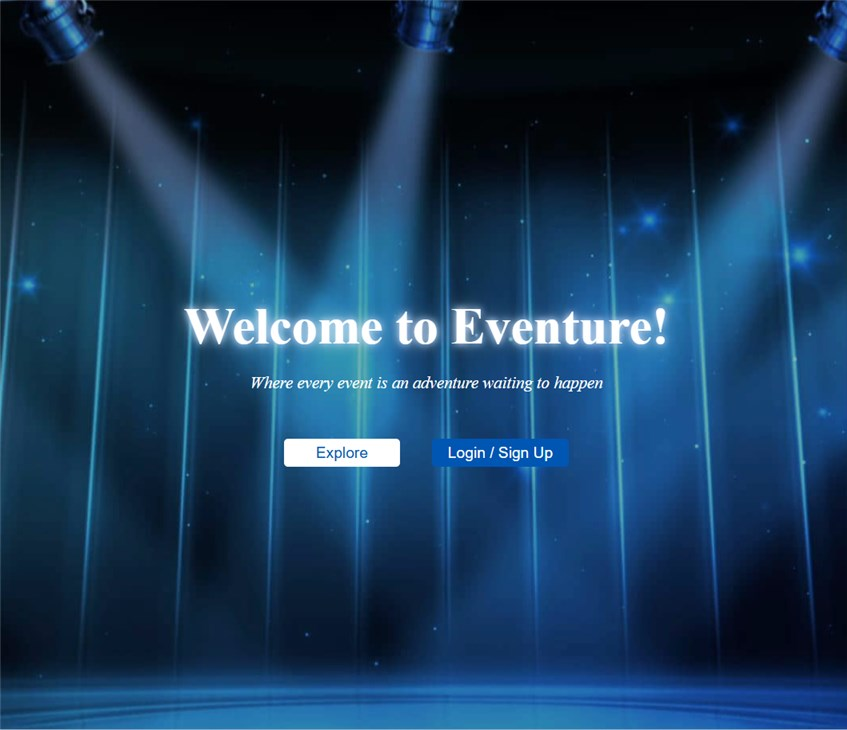
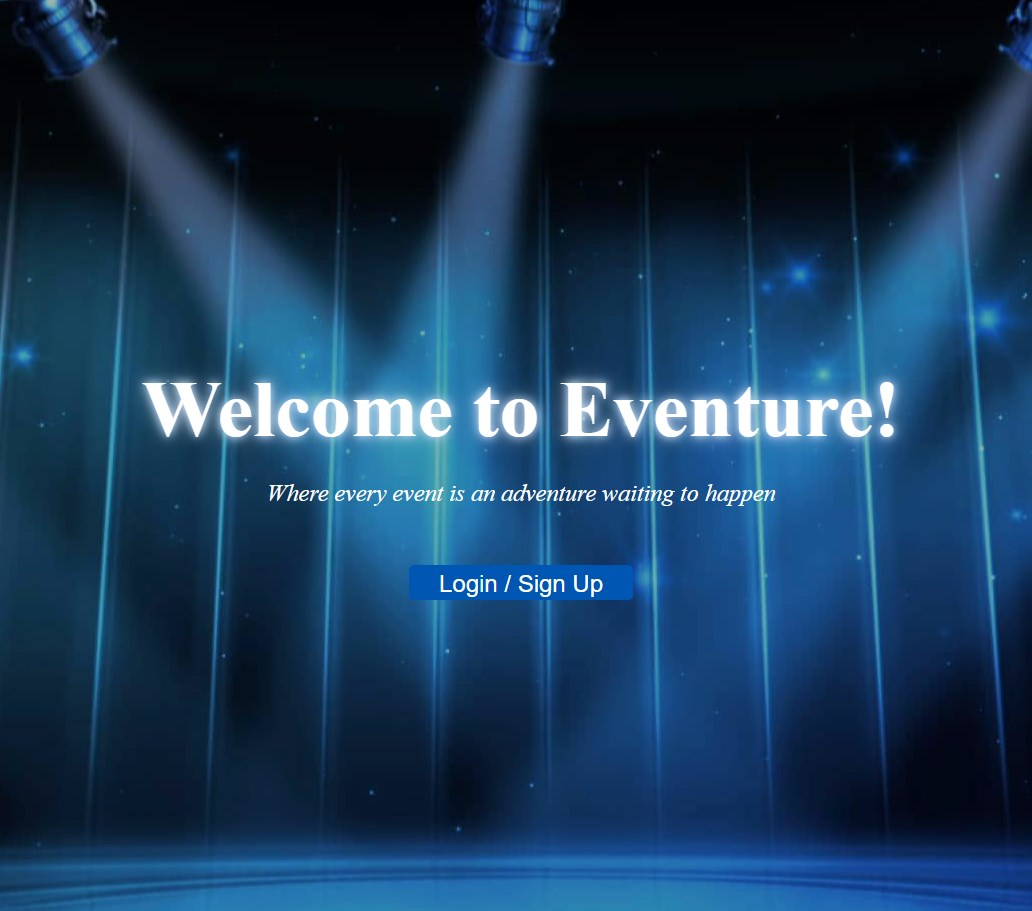
Merged background images, updated README.md, and HomePage.tsx files into main.

diff --git a/client/src/styles/home.css b/client/src/styles/home.css
@@ -1,0 +1,75 @@
+.home-page {
+  height: 100vh;
+  width: 100vw;
+  background-size: cover;
+  background-position: center;
+  transition: background-image 1s ease-in-out;
+  display: flex;
+  align-items: center;
+  justify-content: center;
+  text-align: center;
+  position: relative;
+}
+
+
+/* Dark overlay for better text visibility */
+.overlay {
+  position: absolute; /*Covers the entire page */
+  top: 0;
+  left: 0;
+  background: rgba(0, 0, 0, 0.3); /* Semi-transparent black */
+  color: white;
+  display: flex;
+  flex-direction: column; /* Stack heading, subheading, and buttons */
+  align-items: center; /* Center horizontally */
+  justify-content: center; /* Center vertically */
+  width: 100%;
+  height: 100%;
+}
+
+/* Heading styles */
+.overlay h1 {
+  font-size: 5rem;
+  margin-bottom: 1px;
+
+  /* Glow effect */
+  text-shadow: 0 0 10px rgba(255, 255, 255, 0.8),
+    0 0 20px rgba(255, 255, 255, 0.6), 0 0 10px rgba(24, 114, 211, 0.8); /* Adjust glow intensity */
+  animation: glow 1.2s infinite alternate;
+}
+
+/* Subheading styles */
+.overlay p {
+  font-size: 1.5rem;
+  font-style: italic;
+  margin-bottom: 3rem;
+}
+
+/* Button group styling */
+.button-group {
+  display: flex;
+  justify-content: center;
+}
+
+/* General button styles */
+.button-group button {
+  padding: 5px 30px;
+  font-size: 1.5rem;
+  border: none;
+  border-radius: 5px;
+  cursor: pointer;
+  transition: 0.3s;
+}
+
+/* Login button styling */
+.login-btn {
+  background-color: #0056b3;
+  color: #ffffff;
+  font-size: 1rem;
+}
+
+.login-btn:hover {
+  background-color: #ffffff;
+  color: #0056b3;
+  transform: scale(1.1);
+}

diff --git a/client/src/pages/HomePage.tsx b/client/src/pages/HomePage.tsx
@@ -1,0 +1,43 @@
+import { useNavigate } from "react-router-dom";
+import { useEffect, useState } from "react";
+import "../styles/home.css"; 
+
+const backgroundImages = [
+  "/src/assets/homepage-stage-background.jpg",
+  "/src/assets/homepage-render1.jpg",
+  "/src/assets/homepage-render2.jpg",
+  "/src/assets/homepage-render3.jpg",
+  "/src/assets/homepage-render4.jpg",
+
+];
+
+const HomePage = () => {
+  const [currentImgIndex, setCurrentImgIndex] = useState(0);
+  const navigate = useNavigate();
+
+  useEffect(() => {
+    const interval = setInterval(() => {
+      setCurrentImgIndex((prevIndex) => (prevIndex + 1) % backgroundImages.length);
+    }, 4000); // Change image every 4 seconds
+
+    return () => clearInterval(interval);
+  }, []);
+
+
+  return (
+    <div className="home-page"
+    style={{backgroundImage: `url(${backgroundImages[currentImgIndex]})`}}>
+      <div className="overlay">
+        <h1>Welcome to Eventure!</h1>
+        <p>Where every event is an adventure waiting to happen</p>
+        <div className="button-group">
+          <button className="login-btn" onClick={() => navigate("/login")}>
+            Login / Sign Up
+          </button>
+        </div>
+      </div>
+    </div>
+  );
+};
+
+export default HomePage;

diff --git a/README.md b/README.md
@@ -34,7 +34,7 @@
   ![Eventure-App](./client/src/assets/homepage-render.jpg)
   
   ## Contributing
-  These are all the contributors who helped bring this application to life:
+  The source of contributors I have used in this application:
   * [nolangrossi](https://github.com/nolangrossi/)
   * [jutalexa2024](https://github.com/jutalexa2024)
   * [Jesuscatalan](https://github.com/Jesuscatalan)
